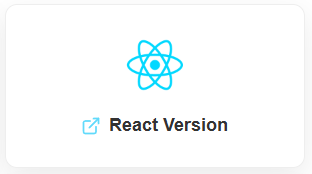
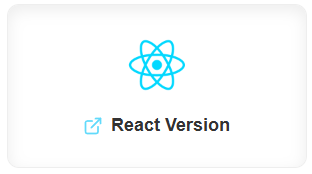
react test

Changed region(s): [[0.4038, 0.2299, 0.6058, 0.5172], [0.2596, 0.6609, 0.75, 0.7759]]

diff --git a/deseription.html b/deseription.html
@@ -22,12 +22,15 @@
     <tr>
         <td align="center" style="width: 100%;">
             <a href="https://themeforest.net/item/freshflow-cleaning-services-html-template/57845068">
-                <img src="https://cdn.jsdelivr.net/gh/DevOashim/description/images/html.png" alt="HTML Version">
+                <img src="https://raw.githubusercontent.com/DevOashim/description/main/images/laravel.png
+" alt="HTML Version">
             </a>
         </td>
         <td align="center" style="width: 100%;">
             <a href="https://themeforest.net/item/freshflow-cleaning-services-maintenance-react-js-template/60608417">
-                <img src="https://cdn.jsdelivr.net/gh/DevOashim/description/images/react.png" alt="React Version">
+                <!-- <img src="https://cdn.jsdelivr.net/gh/DevOashim/description/images/react.png" alt="React Version"> -->
+                <img src="https://raw.githubusercontent.com/DevOashim/description/main/images/react.png"
+                    alt="React Version">
             </a>
         </td>
     </tr>

diff --git a/cards/style.css b/cards/style.css
@@ -143,7 +143,8 @@ body {
     width: 300px;
     padding: 30px 20px;
     border-radius: 12px;
-    box-shadow: 0 10px 30px rgba(0, 0, 0, 0.08);
+    /* Inner shadow added using inset */
+    box-shadow: inset 0 5px 15px rgba(69, 68, 68, 0.1);
     transition: transform 0.3s ease;
     border: 1px solid #eee;
     display: flex;
@@ -151,9 +152,6 @@ body {
     align-items: center;
 }
 
-.version-card:hover {
-    transform: translateY(-5px);
-}
 
 /* Card Logo */
 .card-logo {
